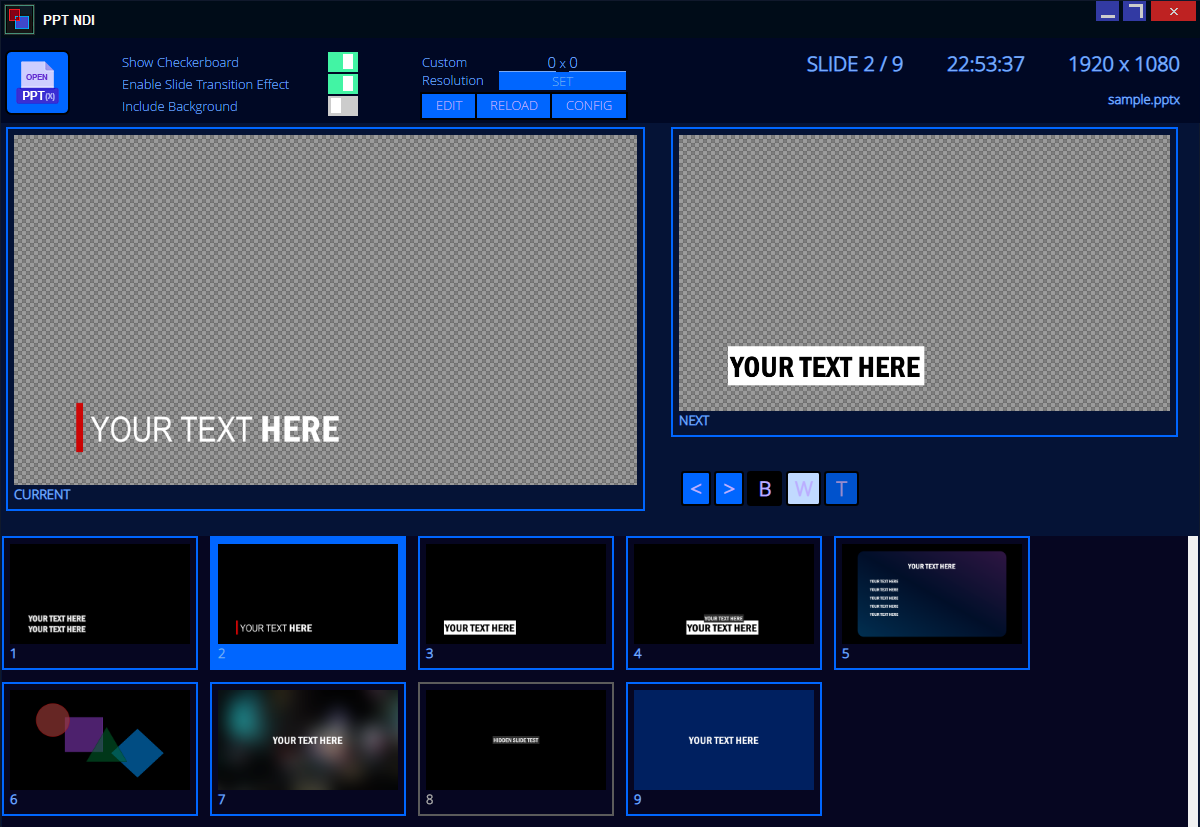
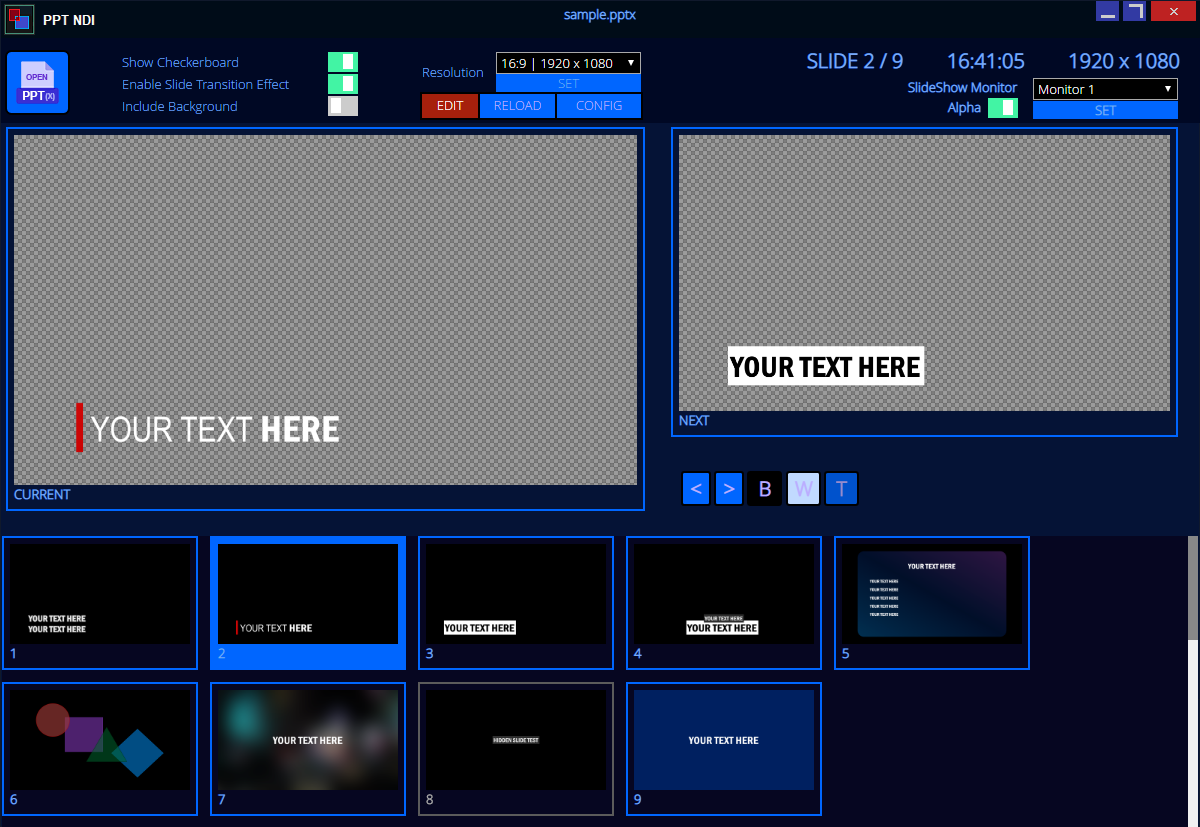
[FIX] version bumped to v1.0.1

diff --git a/README.md b/README.md
@@ -3,7 +3,9 @@
 ## INTRODUCTION
 PPT NDI transfers PowerPoint presentations via NDI technology released by NewTek. Thanks to the transparency support, it can be also used as a character generator.
 
-The latest version is PPT NDI (20191117).
+It also provides SlideShow monitor functionality that supports alpha transparency and can be integrated into any third-party video players that do not support NDI.
+
+The latest version is PPT NDI v1.0.1.
 
 ## BASIC USAGE
 1. Download PPT NDI from https://github.com/ykhwong/ppt-ndi/releases
